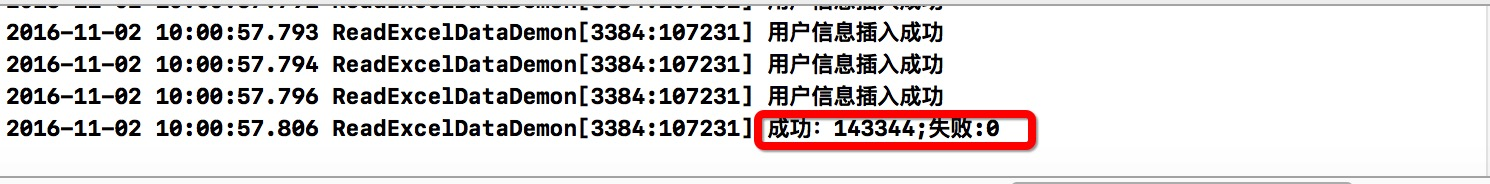
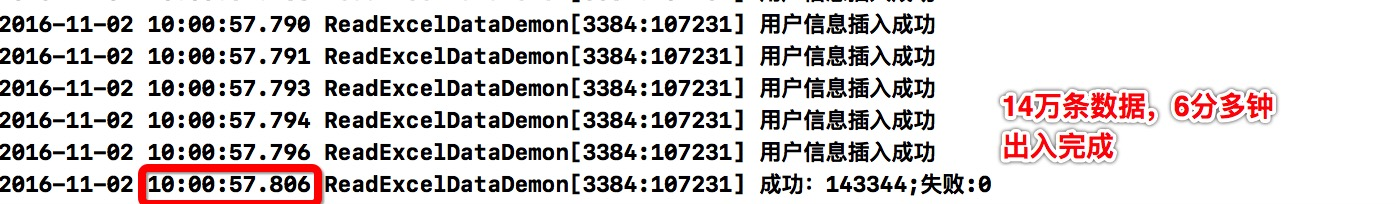
update md

diff --git a/README.md b/README.md
@@ -2,7 +2,7 @@
 ###Excel内读取数据到数据库
 
 ---
-#### 环境说明
+### 环境说明
 * 目前环境是mac book pro，Excel后缀 .xlsx 
 
 ### Excel 处理
@@ -25,6 +25,7 @@
 
 #### demon截图
   ![image](https://github.com/XiaoMingZhiDao/ReadExcelData/blob/master/1.png)
+  ![image](https://github.com/XiaoMingZhiDao/ReadExcelData/blob/master/4.png)
   ![image](https://github.com/XiaoMingZhiDao/ReadExcelData/blob/master/2.png)
   ![image](https://github.com/XiaoMingZhiDao/ReadExcelData/blob/master/3.png)
   
